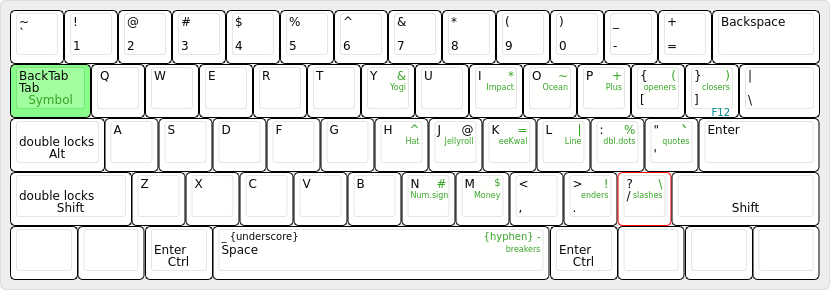
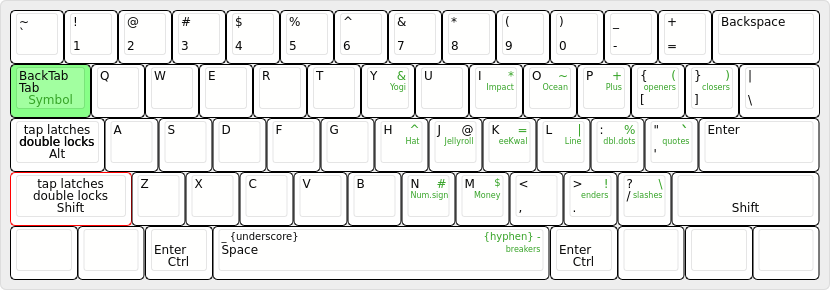
cleanup docs to reflect new regeime

diff --git a/README.md b/README.md
@@ -6,17 +6,20 @@ This is a shiny new version of QWERKey forked from (https://github.com/MicahElli
 You might want to read the README.md there because I am only going a mention a few changes here.
 ![keymap diagram](https://github.com/jganong/QWERkey/blob/master/keyboard-layout.png)
 
-To install this project, put the script "kb" into any directory in your PATH.
+To install this project, install the "xcape" and "xkbset" packages from your package manager,
+and put the script "baklava" into any directory in your PATH.
 
 To activate it, run "baklava start".  To deactivate it, run "baklava" with no arguments.
 
 All the keys (except CapsLock and Alt) keep working as they normally do without kb.
 
-The Alt keys act as Control keys.
+If you hold down an Alt keys it does the Control modifier.  If you tap on either Alt key you get Enter.
 
-The CapsLock no longer works to lock the caps. It now emits Enter when you tap it, and when 
-you hold down it down, it activates a new modifier I am calling CHARM.
-When CHARM is in effect, it activates a layer where many movement keys are on the right hand.
+The CapsLock no longer works to lock the caps. The CapsLock key now does the Alt modifier.
+If you tap it, the Alt function is latched, so the next key you press will have Alt applied.
+If you double tap it, the Alt mode is locked. Tapping Alt again clears its lock.
+
+Similiarly, the Shift key latches when you tap it, and locks when you double tap it.
 
 When you hold down the Tab key it activates the QRK modifier as before in QWERKey.
 All the QWRK symbols have been moved to the right hand, since the left hand is busy doing modifiers.
